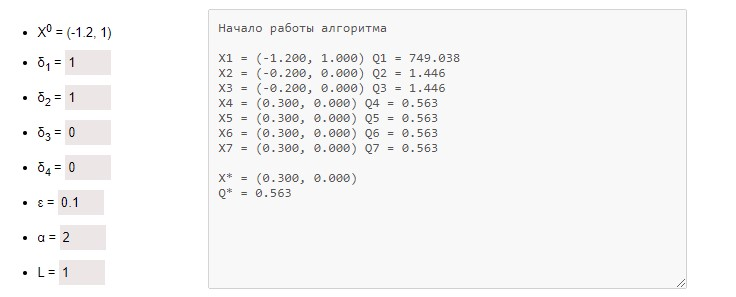
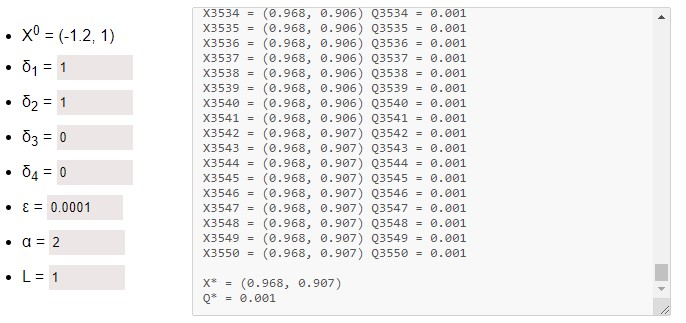
Edit parameters

diff --git a/js/script.js b/js/script.js
@@ -46,11 +46,11 @@ tests.forEach(function (test) {
         switch (currentTest) {
             case "Rosenbrock":
                 list[0].children[0].innerHTML = "X<sup>0</sup> = (-1.2, 1)";
-                list[0].children[1].children[1].value = "2.3";
+                list[0].children[1].children[1].value = "2.2";
                 list[0].children[2].children[1].value = "1";
                 list[0].children[3].children[1].value = "0";
                 list[0].children[4].children[1].value = "0";
-                list[0].children[5].children[0].value = "0.001";
+                list[0].children[5].children[0].value = "0.00001";
                 list[0].children[6].children[0].value = "2";
                 list[0].children[7].children[0].value = "1";
 
@@ -58,10 +58,10 @@ tests.forEach(function (test) {
                 list[1].children[0].innerHTML = "X<sup>0</sup> = (-1.2, 1)";
                 list[1].children[1].innerHTML = "X<sup>0</sup> = (-0.2, 1)";
                 list[1].children[2].innerHTML = "X<sup>0</sup> = (-1.2, 2)";
-                list[1].children[3].children[0].value = "0.0001";
+                list[1].children[3].children[0].value = "0.00001";
                 list[1].children[4].children[0].value = "1";
                 list[1].children[5].children[0].value = "3";
-                list[1].children[6].children[0].value = "0.3";
+                list[1].children[6].children[0].value = "0.25";
                 break;
 
             case "somefunction":
@@ -70,17 +70,17 @@ tests.forEach(function (test) {
                 list[0].children[2].children[1].value = "1";
                 list[0].children[3].children[1].value = "0";
                 list[0].children[4].children[1].value = "0";
-                list[0].children[5].children[0].value = "0.1";
-                list[0].children[6].children[0].value = "2";
+                list[0].children[5].children[0].value = "0.001";
+                list[0].children[6].children[0].value = "4.2";
                 list[0].children[7].children[0].value = "1";
 
                 list[1].children[0].innerHTML = "X<sup>0</sup> = (-1.2, -1)";
                 list[1].children[1].innerHTML = "X<sup>0</sup> = (-0.2, 1)";
                 list[1].children[2].innerHTML = "X<sup>0</sup> = (-1.2, 0)";
-                list[1].children[3].children[0].value = "0.01";
-                list[1].children[4].children[0].value = "2";
-                list[1].children[5].children[0].value = "2.3";
-                list[1].children[6].children[0].value = "0.1";
+                list[1].children[3].children[0].value = "0.0001";
+                list[1].children[4].children[0].value = "1";
+                list[1].children[5].children[0].value = "2";
+                list[1].children[6].children[0].value = "0.3";
                 break;
 
             case "limit":
@@ -89,14 +89,14 @@ tests.forEach(function (test) {
                 list[0].children[2].children[1].value = "1";
                 list[0].children[3].children[1].value = "0";
                 list[0].children[4].children[1].value = "0";
-                list[0].children[5].children[0].value = "0.1";
+                list[0].children[5].children[0].value = "0.0001";
                 list[0].children[6].children[0].value = "2";
                 list[0].children[7].children[0].value = "1";
 
                 list[1].children[0].innerHTML = "X<sup>0</sup> = (-1.2, 1)";
                 list[1].children[1].innerHTML = "X<sup>0</sup> = (-0.2, 1)";
                 list[1].children[2].innerHTML = "X<sup>0</sup> = (-1.2, 2)";
-                list[1].children[3].children[0].value = "0.01";
+                list[1].children[3].children[0].value = "0.0001";
                 list[1].children[4].children[0].value = "1";
                 list[1].children[5].children[0].value = "3";
                 list[1].children[6].children[0].value = "0.5";
@@ -108,7 +108,7 @@ tests.forEach(function (test) {
                 list[0].children[2].children[1].value = "1";
                 list[0].children[3].children[1].value = "1";
                 list[0].children[4].children[1].value = "1";
-                list[0].children[5].children[0].value = "0.1";
+                list[0].children[5].children[0].value = "0.01";
                 list[0].children[6].children[0].value = "2";
                 list[0].children[7].children[0].value = "1";
 
@@ -125,16 +125,16 @@ tests.forEach(function (test) {
                 list[0].children[0].innerHTML = "X<sup>0</sup> = (-1.2, 1, 0)";
                 list[0].children[1].children[1].value = "1";
                 list[0].children[2].children[1].value = "1";
-                list[0].children[3].children[1].value = "1";
+                list[0].children[3].children[1].value = "0";
                 list[0].children[4].children[1].value = "0";
-                list[0].children[5].children[0].value = "0.1";
+                list[0].children[5].children[0].value = "0.01";
                 list[0].children[6].children[0].value = "2";
                 list[0].children[7].children[0].value = "1";
 
                 list[1].children[0].innerHTML = "X<sup>0</sup> = (-1.2, 1, 0)";
                 list[1].children[1].innerHTML = "X<sup>0</sup> = (-0.2, 1, 0)";
                 list[1].children[2].innerHTML = "X<sup>0</sup> = (-1.2, 2, 0)";
-                list[1].children[3].children[0].value = "0.01";
+                list[1].children[3].children[0].value = "0.0001";
                 list[1].children[4].children[0].value = "1";
                 list[1].children[5].children[0].value = "3";
                 list[1].children[6].children[0].value = "0.5";
@@ -198,8 +198,12 @@ NMstart.onclick = function () {
             startingPoints = [new Point([-1.2, 1]), new Point([-0.2, 1]), new Point([-1.2, 2])],
             nelder_mead(fun, startingPoints, e, a, b, g, [-1.2, 1, -1, 1]);
             break;
+        // case "coordinates":
+        //     startingPoints = [new Point([3, -1, 0, 1]), new Point([4, -1, 0, 1]), new Point([3, 0, 0, 1])],
+        //     nelder_mead(four, startingPoints, e, a, b, g);
+        //     break;
         case "coordinates":
-            startingPoints = [new Point([3, -1, 0, 1]), new Point([4, -1, 0, 1]), new Point([3, 0, 0, 1])],
+            startingPoints = [new Point([3, -1, 0, 1]), new Point([3, 0, 0, 1]), new Point([0, 0, 1, 1])],
             nelder_mead(four, startingPoints, e, a, b, g);
             break;
         case "matrix":

diff --git a/index.html b/index.html
@@ -79,13 +79,13 @@
   <div class="main">
     <ul>
       <li>X<sup>0</sup> = (-1.2, 1)</li>
-      <li>&#948;<sub>1</sub> = <input type="text" value="2.3"></li>
+      <li>&#948;<sub>1</sub> = <input type="text" value="2.2"></li>
       <li>&#948;<sub>2</sub> = <input type="text" value="1"></li>
       <li>&#948;<sub>3</sub> = <input type="text" value="0"></li>
       <li>&#948;<sub>4</sub> = <input type="text" value="0"></li>
-      <li>&#949; = <input type="text" value="0.001"></li>
-      <li>&#945; = <input type="text" value="2"></li>
-      <li>L = <input type="text" value="1"></li>
+      <li>&#949;  = <input type="text" value="0.00001"></li>
+      <li>&#945;  = <input type="text" value="2"></li>
+      <li>L  = <input type="text" value="1"></li>
     </ul>
     <textarea name="work" cols="60" rows="15" disabled></textarea>
   </div>
@@ -97,10 +97,10 @@
       <li>X<sup>0</sup> = (-1.2, 1)</li>
       <li>X<sup>1</sup> = (-0.2, 1)</li>
       <li>X<sup>2</sup> = (-1.2, 2)</li>
-      <li>&epsilon; = <input type="text" value="0.0001"></li>
+      <li>&epsilon; = <input type="text" value="0.00001"></li>
       <li>&alpha; = <input type="text" value="1"></li>
       <li>&beta; = <input type="text" value="3"></li>
-      <li>&gamma; = <input type="text" value="0.3"></li>
+      <li>&gamma; = <input type="text" value="0.25"></li>
     </ul>
     <textarea name="work" cols="60" rows="15" disabled></textarea>
   </div>

diff --git a/js/nelder_mead.js b/js/nelder_mead.js
@@ -29,9 +29,9 @@ function nelder_mead(f, X, accuracy, reflCoef, stretchCoef, comprCoef, limit) {
         error = Math.sqrt((1 / 3) * (Math.pow(f(X[1]) - f(X[0]), 2) + Math.pow(f(X[2]) - f(X[0]), 2)));
 
         X = [worstPoint, goodPoint, bestPoint];
-    } while (error > accuracy && step <= 100);
+    } while (error > accuracy && step <= 5000);
 
-    if (step == 101) area.innerHTML += `Счетчик достиг максимума в 100 шагов. Вероятно, алгоритм расходится.\n`;
+    if (step == 1001) area.innerHTML += `Счетчик достиг максимума в 1000 шагов. Вероятно, алгоритм расходится.\n`;
     area.innerHTML += getText(X[2], "*", f);
 }
 

diff --git a/js/hooke_jeeves.js b/js/hooke_jeeves.js
@@ -24,9 +24,9 @@ function hooke_jeeves(f, X, increments, accuracy, coef, L, limit) {
         else X = sampleSearch(X, shiftByCoordinate, L);
 
         step++;
-    } while (error > accuracy && step <= 100);
+    } while (error > accuracy && step <= 7000);
 
-    if (step == 101) area.innerHTML += `\nСчетчик достиг максимума в 100 шагов. Вероятно, алгоритм расходится.`;
+    if (step == 1001) area.innerHTML += `\nСчетчик достиг максимума в 1000 шагов. Вероятно, алгоритм расходится.`;
     area.innerHTML += getText(X, "*", f);
 }
 

diff --git a/css/style.css b/css/style.css
@@ -19,7 +19,7 @@ textarea {
 }
 
 input {
-  max-width: 40px;
+  max-width: 70px;
   padding: 5px 3px;
   background-color: rgba(201, 187, 187, 0.349);
   border: none;
